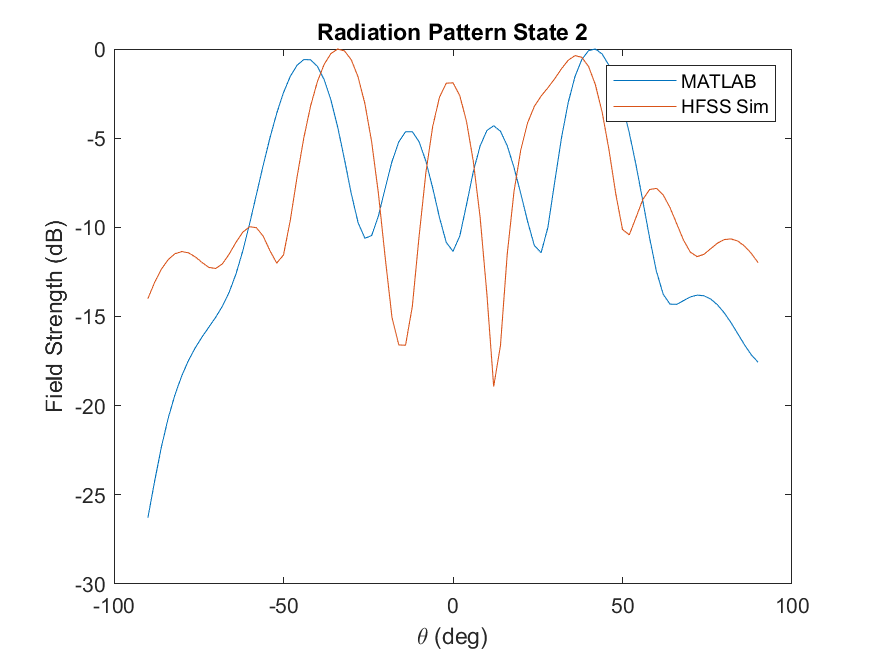
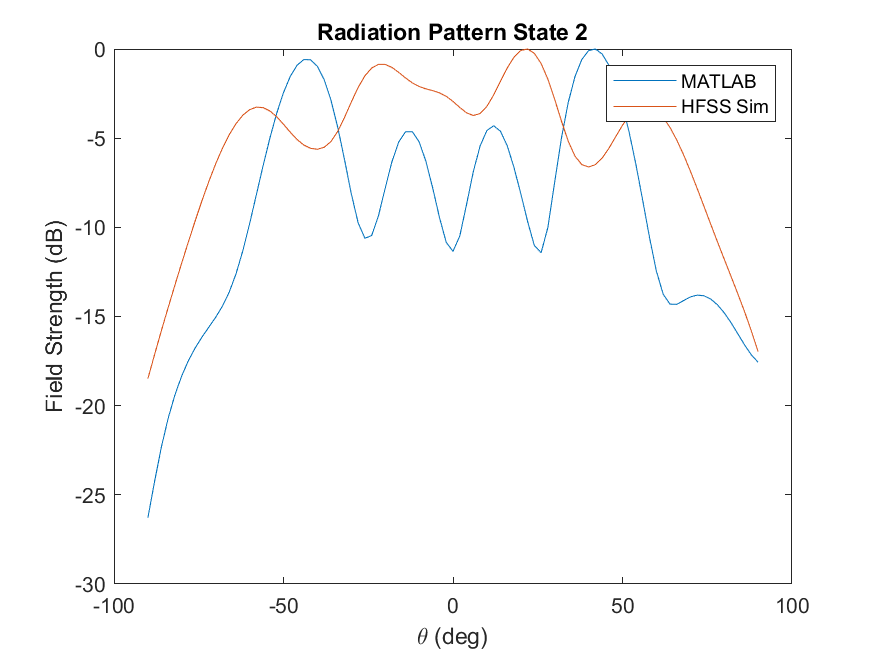
added some more figs

diff --git a/rad_field_test_optim.m b/rad_field_test_optim.m
@@ -22,7 +22,7 @@ E_rl = zeros(1,91);
 E_targ = zeros(1,91);
 
 for n = 1:21
-    E_targ = E_targ + cos(pi*(n-11)/21)*exp(1i*(n-1)*k*d.*sind(theta));
+    E_targ = E_targ + exp(1i*(n-1)*k*d.*sind(theta));
 end
 % COSINE ELEMENT cos(pi*(n-11)/21)*
 E_targ = E_targ./max(E_targ);
@@ -31,7 +31,7 @@ E_targ = E_targ./max(E_targ);
 [Zm_LL,Zm_LE,Zm_EL,Zm_EE] = extractParams("meander_array_zmatrix/UnitCell_Meander_Array_1D_Array_Meander_10mm_2mm.s21p",Z_0,21,11);
 
 % Define Z matrices
-x0 = 45.*ones(1,20);
+x0 = 50.*ones(1,20);
 
 [Xs_mat,Z_LL,Z_LE,Z_EL,Z_EE,I_E] = optimSymOut("straight_ms_zmatrix/UnitCell_Meander_Array_1D_Array_Straight_ZMat_3-5mm_ms.s21p",Etheta,E_targ,x0,10,100,I_E,Z_0,21,11);
 Xval = -60;
@@ -54,13 +54,13 @@ for i = 1:10
 end
 
 % Import HFSS Graph
-fields_data = readtable("test/test_fields.csv");
+fields_data = readtable("test/optimized_test_fields.csv");
 fields_data_arr = table2array(fields_data);
 theta_vals = fields_data_arr(:,1);
 norm_vals = zeros(91,10);
 
 for i = 1:10
-    norm_vals(:,i) = fields_data_arr(:,12-i);
+    norm_vals(:,i) = fields_data_arr(:,1+i);
 end
 
 for i = 1:10
@@ -72,5 +72,5 @@ for i = 1:10
     xlabel("\theta (deg)")
     ylabel("Field Strength (dB)")
     legend("MATLAB","HFSS Sim")
-    saveas(gcf,"figures/test_fields/optim_state"+i+".png")
+    saveas(gcf,"figures/test_fields/optim_const_state"+i+".png")
 end
